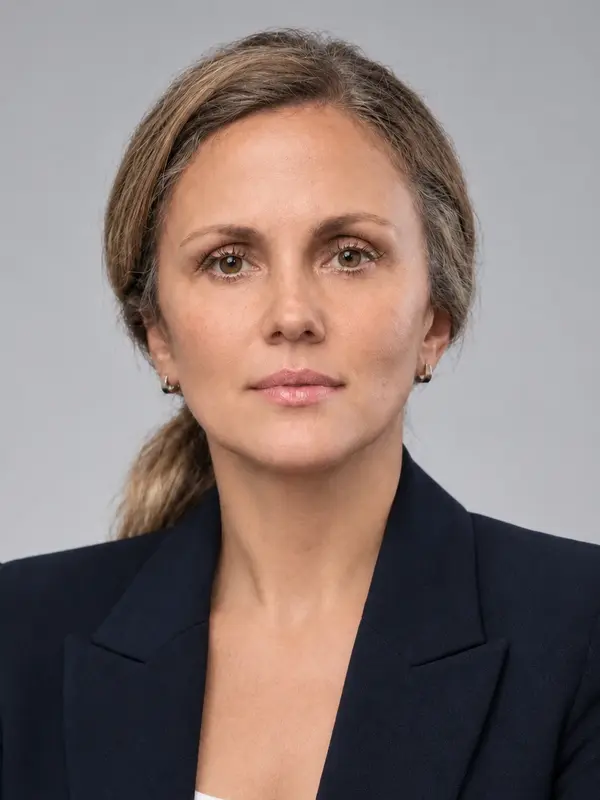
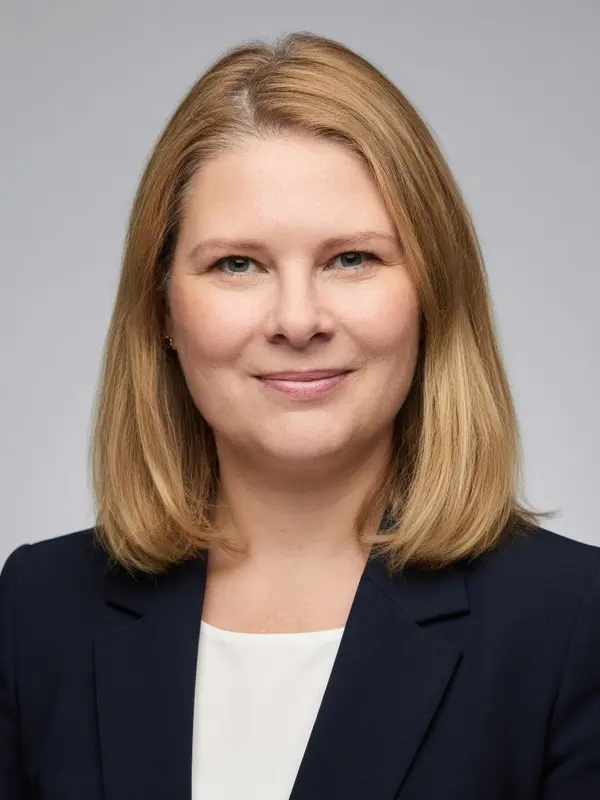
Swap Galina's and Alevtina's photos; fix Galina's regalia wording
- The two portrait files trade places, so each file name again matches
  the person in the photo; CONFIG paths are unchanged.
- "Соучредитель компаний" -> "Соучредитель компании" for Galina,
  matching the other partners.

Claude-Session: https://claude.ai/code/session_013cP4QdMxRTghQt9G7yx8ou

diff --git a/script.js b/script.js
@@ -82,7 +82,7 @@ const CONFIG = {
       name: 'Галина Родькина',
       title: 'Старший партнёр',
       photo: 'img/team/rodkina-galina.webp',
-      regalia: ['Соучредитель компаний', 'Старший партнёр'],
+      regalia: ['Соучредитель компании', 'Старший партнёр'],
       role: [
         'Осуществляет взаимодействие с клиентами',
         'Отвечает за разработку, внедрение и эксплуатацию модели, основанной на измеримых показателях эффективности, достаточных для обеспечения полной прозрачности и масштабирования бизнеса'
